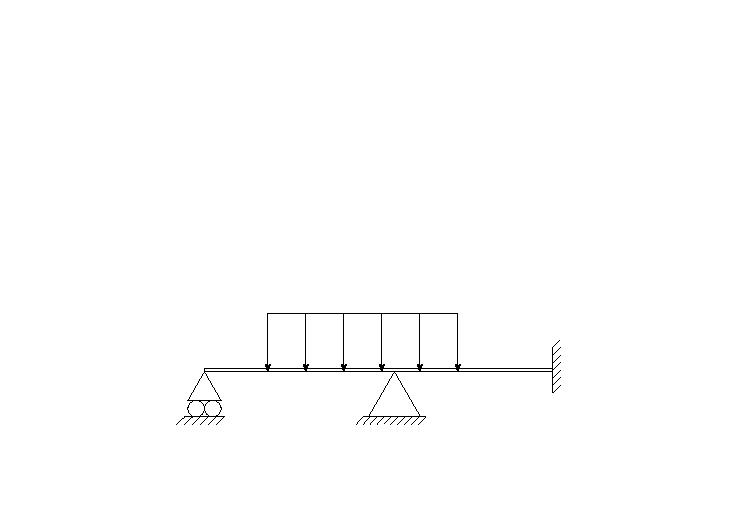
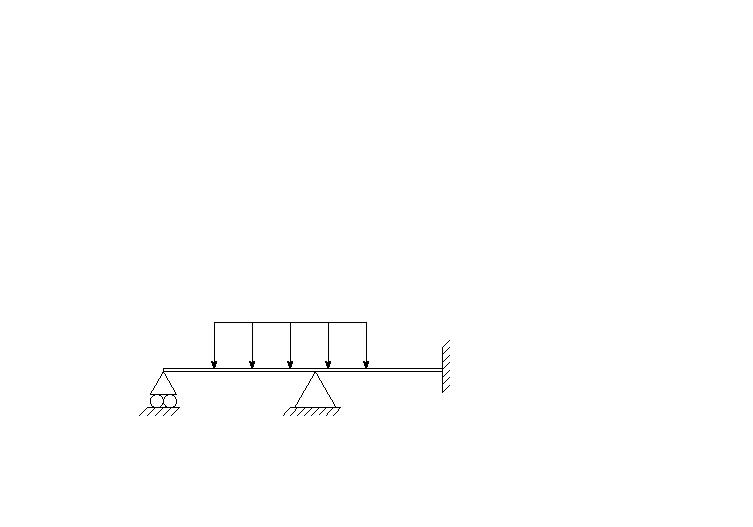
Some small changes

diff --git a/imageGenerator/Image_generator3.0.py b/imageGenerator/Image_generator3.0.py
@@ -16,8 +16,10 @@ truss_beams = []
 surface_points = {"Bottom": [], "Top": [], "Left": [], "Right": []} # To find the closest item for a surface. Each list: 
                                                                     # (the item, (starting coordinate), (ending coordinate)) 
 
-labels = ["RollerSupport", "PinSupport", "Beam", "Node", "ArrowDown", "ArrowUp", "ArrowCounterClockwise",
-                  "ArrowClockwise", "Beam45", "Beam135", "Surface", "LoadUp", "LoadRight", "LoadDown"]
+labels = ["PinSupport", "RollerSupport", "BeamLine0", "Surface", "Node", "ArrowUp", "ArrowDown", 
+          "ArrowLeft", "ArrowRight", "ClockwiseRight", "ClockwiseTop", "ClockwiseLeft", "ClockwiseBottom", 
+          "CounterclockwiseRight", "CounterclockwiseTop", "CounterclockwiseLeft", "CounterclockwiseBottom", 
+          "Beam0", "BeamLine45", "BeamLine90", "Beam90", "BeamLine135", "Beam135", "LoadDown", "LoadUp"]
 
 # Method for finding closest point on any beam returning that point and the corresponding beam
 def find_closest_point(coord, sides=["Bottom", "Top", "Left", "Right"]):
@@ -58,14 +60,15 @@ def compute_distance(point1, point2):
 
 # Defining a beam
 class Beam:
-    def __init__(self, x_min, y_min, x_max, y_max):
+    def __init__(self, x_min, y_min, x_max, y_max, orientation):
         y_mid = (y_max + y_min)/2
         x_mid = (x_max + x_min)/2
         self.height = 4
+        self.orientation = orientation
         self.points = {"Bottom": [], "Top": [], "Left": [], "Right": []}
         self.objects = {"Forces": [], "Loads": [], "Pins": [], "Rollers": [],
                         "Moments": [], "Surfaces": []}
-        if x_max - x_min > y_max - y_min:
+        if orientation == "0":
             self.length = x_max - x_min
             self.y_max = y_mid + self.height/2
             self.y_min = y_mid - self.height/2
@@ -84,7 +87,7 @@ class Beam:
             surface_points["Right"].append((self, (self.x_max, y_mid), (self.x_max, y_mid)))  # middle point were they connect won´t be changed
             self.surface_height = self.height*15
 
-        else:
+        elif orientation == "90":
             self.length = y_max - y_min
             self.x_max = x_mid + self.height/2
             self.x_min = x_mid - self.height/2
@@ -227,7 +230,7 @@ class PinSupport:
         self.beam.objects["Pins"].append((self.corner1, self.orientation))
 
 # Defining a roller support as a pin support with sidelength 9.51% of corresponding beams length
-# plus two extra circles at half that length as diameter
+# plus two extra circles with half that length as diameter
 class RollerSupport:
     def __init__(self, x_min, y_min, x_max, y_max):
         x_mid = (x_min + x_max)/2
@@ -386,7 +389,7 @@ class Load:
         if self.direction == "Down":
             for i in range(self.no_arrows + 1):
                 px = self.leftmost_point[0] + i * self.sep
-                m_cnv.create_line(px, py1, px, py2, arrow="first")
+                m_cnv.create_line(px, py1, px, py2, arrow="first") # Kan krympa med first/last som variabel
         elif self.direction == "Up":
             for i in range(self.no_arrows + 1):
                 px = self.leftmost_point[0] + i * self.sep
@@ -468,12 +471,6 @@ class Surface:
 
         if type(self.closest_item) == Beam: # Rätt?
             self.closest_item.objects["Surfaces"].append((self.closest_point)) 
-
-
-
-        
-            
-
 
 
 def find_closest_node(coord):
@@ -610,7 +607,7 @@ def get_objects():
     return (df1)
 
 
-def delete_overlapping_objects(objects):
+def delete_overlapping_objects(objects): # Sannolikheter, Momentpilar åt olika håll -> välj den som har rätt typ av balkpunkt närmast, grej för att ändra position om krock efter ändringar
     for index1, obj1 in objects.iterrows():
         for index2, obj2 in objects.iterrows():
             if index1 == index2:
@@ -628,22 +625,27 @@ def delete_overlapping_objects(objects):
                     objects = objects.drop(index1, axis=0)
                 elif type1 in ["ArrowUp", "ArrowDown", "ArrowLeft", "ArrowRight"] and type2 in ["LoadUp", "LoadDown"]:
                     objects = objects.drop(index1, axis=0)
+                elif type1 == "Node" and type2 == "RollerSupport":
+                    objects = objects.drop(index1, axis=0)
     return objects
 
 def draw_all_objects():
     objects = get_objects()
-    m_x = interp1d([0, 4000], [0, 1000])
+    m_x = interp1d([0, 4000], [0, 800])
     m_y = interp1d([0, 4000], [800, 0])
     for index, row in objects.iterrows():
         obj_type = labels[row[4]]
-        x_min, y_min, x_max, y_max = float(m_x(row[0])), float(m_y(row[1])), float(m_x(row[2])), float(m_y(row[3]))
-        if obj_type == "Beam":
-            beam = Beam(x_min, y_min, x_max, y_max)
+        x_min, y_min, x_max, y_max = float(m_x(row[0])), float(m_y(row[3])), float(m_x(row[2])), float(m_y(row[1]))
+        if obj_type in ["Beam0", "BeamLine0"]:
+            beam = Beam(x_min, y_min, x_max, y_max, "0")
+            beam.draw()
+        elif obj_type in ["Beam90", "BeamLine90"]:
+            beam = Beam(x_min, y_min, x_max, y_max, "90")
             beam.draw()
 
     for index, row in objects.iterrows():
         obj_type = labels[row[4]]
-        x_min, y_min, x_max, y_max = float(m_x(row[0])), float(m_y(row[1])), float(m_x(row[2])), float(m_y(row[3]))
+        x_min, y_min, x_max, y_max = float(m_x(row[0])), float(m_y(row[3])), float(m_x(row[2])), float(m_y(row[1]))
         if obj_type == "ArrowDown":
             force = Force(x_min, y_min, x_max, y_max, "Down")
             force.draw()
@@ -699,9 +701,9 @@ def draw_all_objects():
         elif obj_type == "RightArrowCounterwise":
            moment = Moment(x_min, y_min, x_max, y_max, "Counterwise", "Right")
            moment.draw()
-    for index, row in objects.iterrows():
+    for index, row in objects.iterrows(): # m_x på alla löser
         obj_type = labels[row[4]]
-        x_min, y_min, x_max, y_max = float(m_x(row[0])), float(m_x(row[1])), float(m_x(row[2])), float(m_x(row[3]))
+        x_min, y_min, x_max, y_max = float(m_x(row[0])), float(m_y(row[3])), float(m_x(row[2])), float(m_y(row[1]))
         
         if obj_type == "Surface":
             surface = Surface(x_min, y_min, x_max, y_max)
@@ -709,22 +711,6 @@ def draw_all_objects():
 
 
 draw_all_objects()
-
-# beam1 = Beam(100, 550, 600, 650)
-# beam1.draw()
-# arrow1 = Force(150, 100, 175, 150, "Left")
-# arrow1.draw()
-# pin1 = PinSupport(300, 700, 356, 750, 0.15)
-# pin1.draw()
-# roll = RollerSupport(300, 500, 350, 650)
-# roll.draw()
-# rolll = RollerSupport(10, 550, 100, 650)
-# rolll.draw()
-# moment = Moment(750, 550, 800, 650, "Clockwise", "Bottom")
-# moment.draw()
-# m_cnv.create_line(400, 550, 400, 650, fill="red")
-# load = Load(100, 450, 400, 550, "Up")
-# load.draw()
 
 m_cnv.update()
 m_cnv.postscript(file="bild.png", colormode='color')
